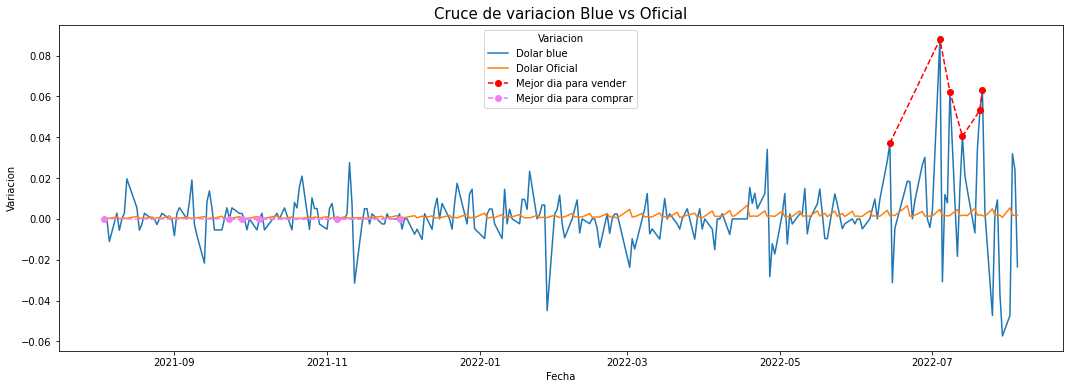
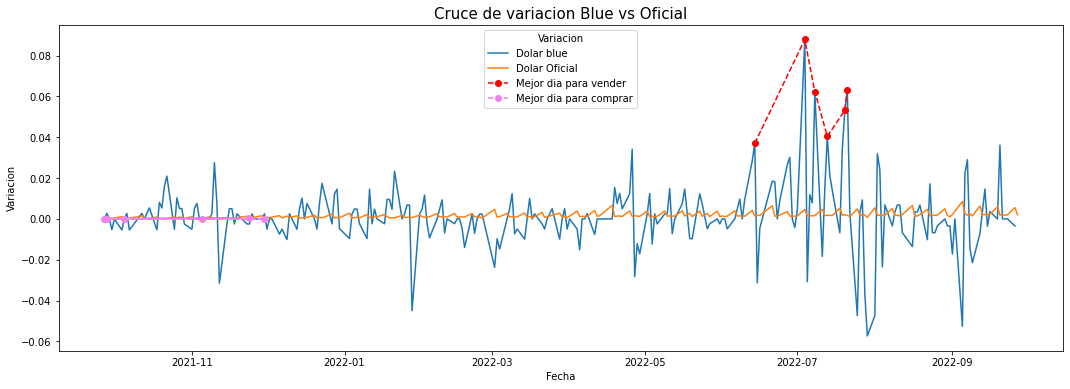
modificaciones

diff --git a/README.md b/README.md
@@ -14,33 +14,84 @@ Endpoints: se pueden utilizar los que se consideren necesarios
 Autorización y requests  
 Función para convertir Json a Dataframe  
 Limpieza de datos  
-Preguntas
- * Dólar oficial vs Dólar Blue:   
-    * Últimos 365 días:
-        * 1) Día con mayor variación en la brecha  
-        | Date                |   Valor_var_usd_vs_usd_of |
-|:--------------------|--------------------------:|
-| 2022-07-22 00:00:00 |                   160.481 |
-        ![src\img01.png](https://github.com/Jhlirion/DolarBlue_vs_DolarOficial/blob/main/src/grafico01.png)
-        * 2) Top 5 días con mayor volatilidad  
-        ![src\img01.png](https://github.com/Jhlirion/DolarBlue_vs_DolarOficial/blob/main/src/grafico01.png)
-        * 3) Semana con mayor variación en la brecha 
+___________
+* Últimos 365 días:
+* 1) Día con mayor variación en la brecha, respecto al día anterior:
 
-        * 4) Día de la semana donde hay mayor variación en la brecha   
+    | Fecha               |   Variación |
+    |:--------------------|--------------------------:|
+    | 2022-07-22 00:00:00 |                   160.48 |.
 
+    ![variación](https://github.com/Jhlirion/DolarBlue_vs_DolarOficial/blob/main/src/grafico01.png)
 
-    * General:
-        * 5) Con la info histórica del valor del dólar y del blue, realizar un análisis exploratorio. Cruzar la data con sucesos importantes a nivel político-económico y graficar mes a mes.
-        
-        * 6) Implementar una regresión lineal (una para cada tipo de dólar) para predecir el valor del dólar en:
-            * 3 meses
-            * 6 meses
-            * 12 meses
-        * 7) Bonus opcional: Realizar una calculadora de predicción de aumento del dólar
+* 2) Top 5 días con mayor volatilidad:
+
+    |Fecha      |    Volatilidad|
+    |:----------|----------:|
+    |2021-11-12 |   0.053035|
+    |2022-02-04 |   0.059963|
+    |2022-05-23 |   0.062813|
+    |2022-07-29 |   0.171625|
+
+    ![Volatilidad](https://github.com/Jhlirion/DolarBlue_vs_DolarOficial/blob/main/src/grafico02.png)
 
 
-* Inflación vs Dólar
-    * Últimos 4 años:
-        * 8) Mejor momento para comprar dolár oficial y venderlo a dolár blu
+* 3) Semana con mayor variación en la brecha 
+
+    |   Semana |    mean |
+    |:---------:|--------:|
+    |       29 | 144.868 |
+
+    ![varia_brecha](https://github.com/Jhlirion/DolarBlue_vs_DolarOficial/blob/main/src/grafico03.png)
 
 
+* 4) Día de la semana donde hay mayor variación en la brecha   
+
+    | Fecha               | Day    |   Diferencia |
+    |:--------------------|:-------|-------------:|
+    | 2022-07-04 00:00:00 | Monday |    8.0% |
+
+    ![dia_brecha](https://github.com/Jhlirion/DolarBlue_vs_DolarOficial/blob/main/src/grafico04.png)
+
+## General:
+
+* 5) Con la info histórica del valor del dólar y del blue, realizar un análisis exploratorio. Cruzar la data con sucesos importantes a nivel político-económico y graficar mes a mes.
+
+    | AnioMes   |   Valor_var_usd_vs_usd_of | Evento              | Tipo_Evento   |
+    |:----------|--------------------------:|:--------------------|:--------------|
+    | 2022-08   |                  119.58  | Sergio Massa        | econ          |
+    | 2022-07   |                  112.71  | Silvina Batakis     | econ          |
+    | 2022-07   |                  112.71  | Sergio Massa        | econ          |
+    | 2014-10   |                   78.80 | Alejandro Vanoli    | bcra          |
+    | 2013-11   |                   63.78 | Juan Carlos Fábrega | bcra          |
+    | 2013-11   |                   63.78 | Axel Kicillof       | econ          |
+    | 2012-08   |                   37.06 | Cepo al Dolar       | misc          |
+
+    ![eventos](https://github.com/Jhlirion/DolarBlue_vs_DolarOficial/blob/main/src/grafico05.png)
+
+
+* 6) Implementar una regresión lineal (una para cada tipo de dólar) para predecir el valor del dólar en:
+
+
+* 8) Mejor momento para comprar dolár oficial y venderlo a dolár blu
+ 
+    | Mejor dia para Comprar fue:    | Date                |   Variacion_usd_of |
+    |---:|:--------------------|-------------------:|
+    |  | 2021-11-24 00:00:00 |        0.000198807 |
+    |  | 2021-09-28 00:00:00 |        0.000101348 |
+    |   | 2021-10-05 00:00:00 |        0.000101122 |
+    |  | 2021-11-30 00:00:00 |        9.90884e-05 |
+    |  | 2021-11-05 00:00:00 |        0           |
+    |   | 2021-09-27 00:00:00 |        0           |
+
+    |Mejor dia para Vender fue:       | Date                |   Variacion_usd |
+    |----:|:--------------------|----------------:|
+    |  | 2022-06-14 00:00:00 |       0.037037  |
+    |  | 2022-07-04 00:00:00 |       0.0878661 |
+    |  | 2022-07-08 00:00:00 |       0.0622568 |
+    |  | 2022-07-13 00:00:00 |       0.0404412 |
+    |  | 2022-07-20 00:00:00 |       0.0531561 |
+    |  | 2022-07-21 00:00:00 |       0.0630915 |
+
+
+    ![moment](https://github.com/Jhlirion/DolarBlue_vs_DolarOficial/blob/main/src/grafico07.png)
